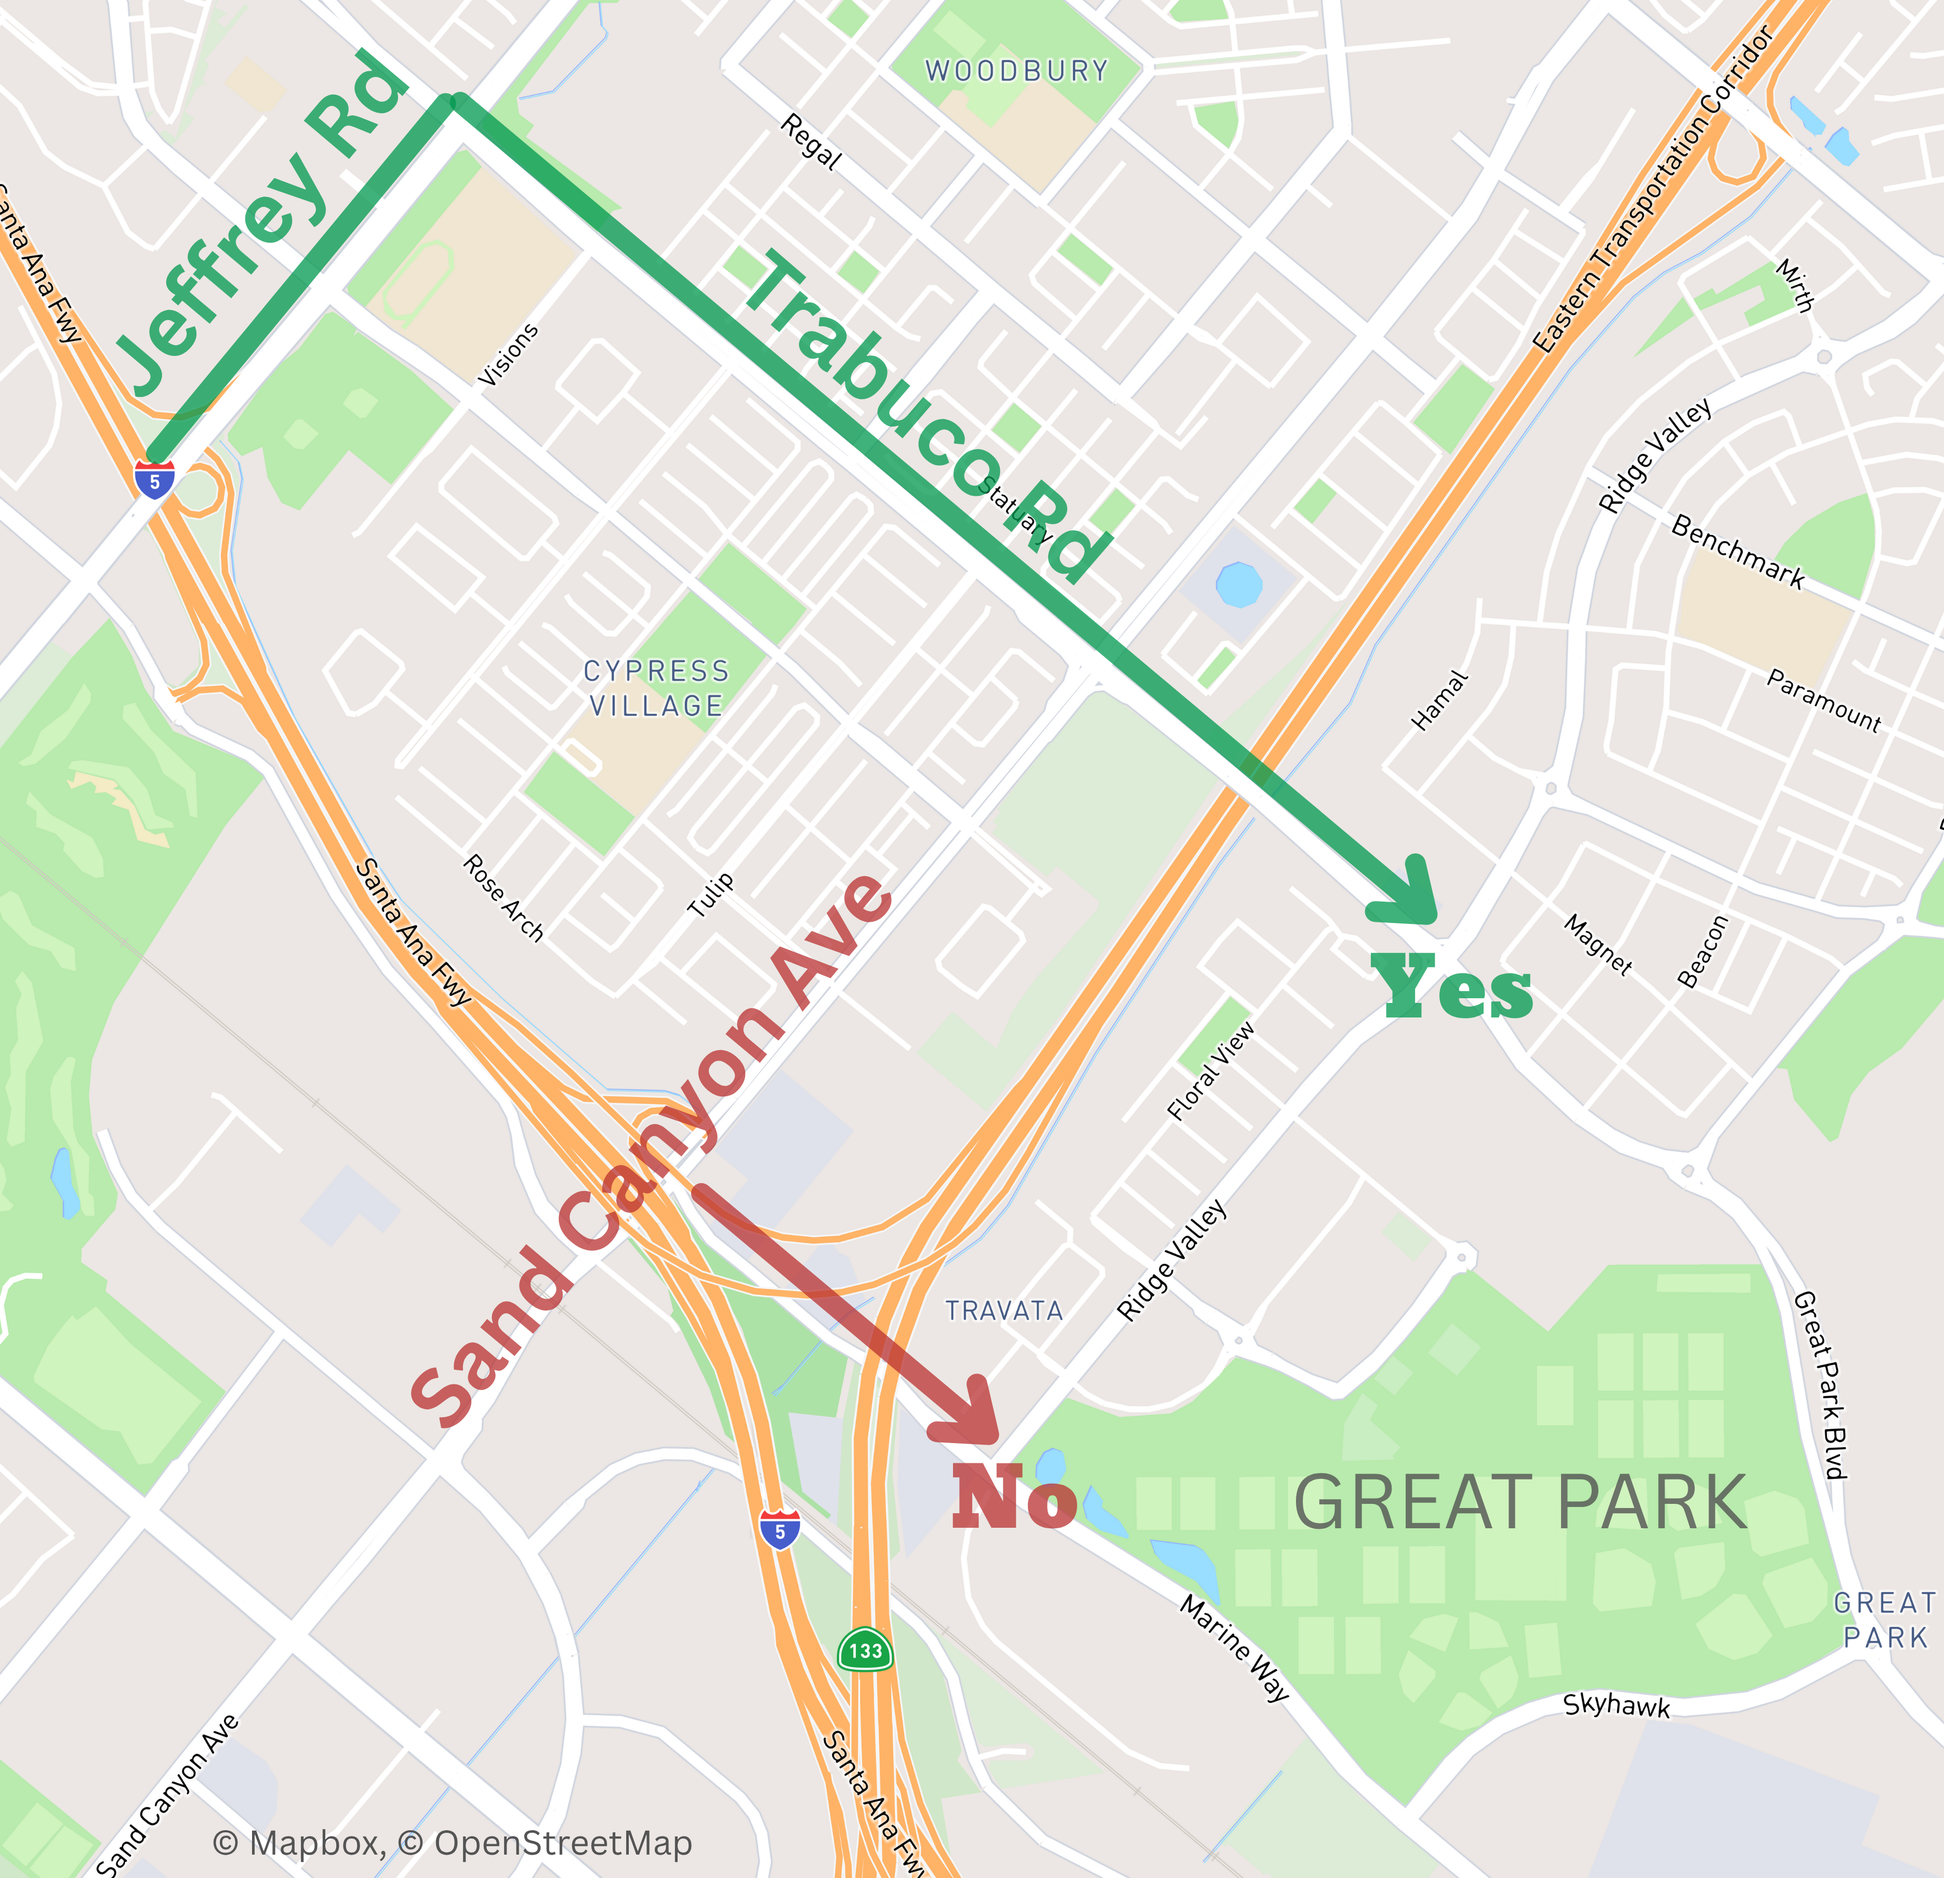
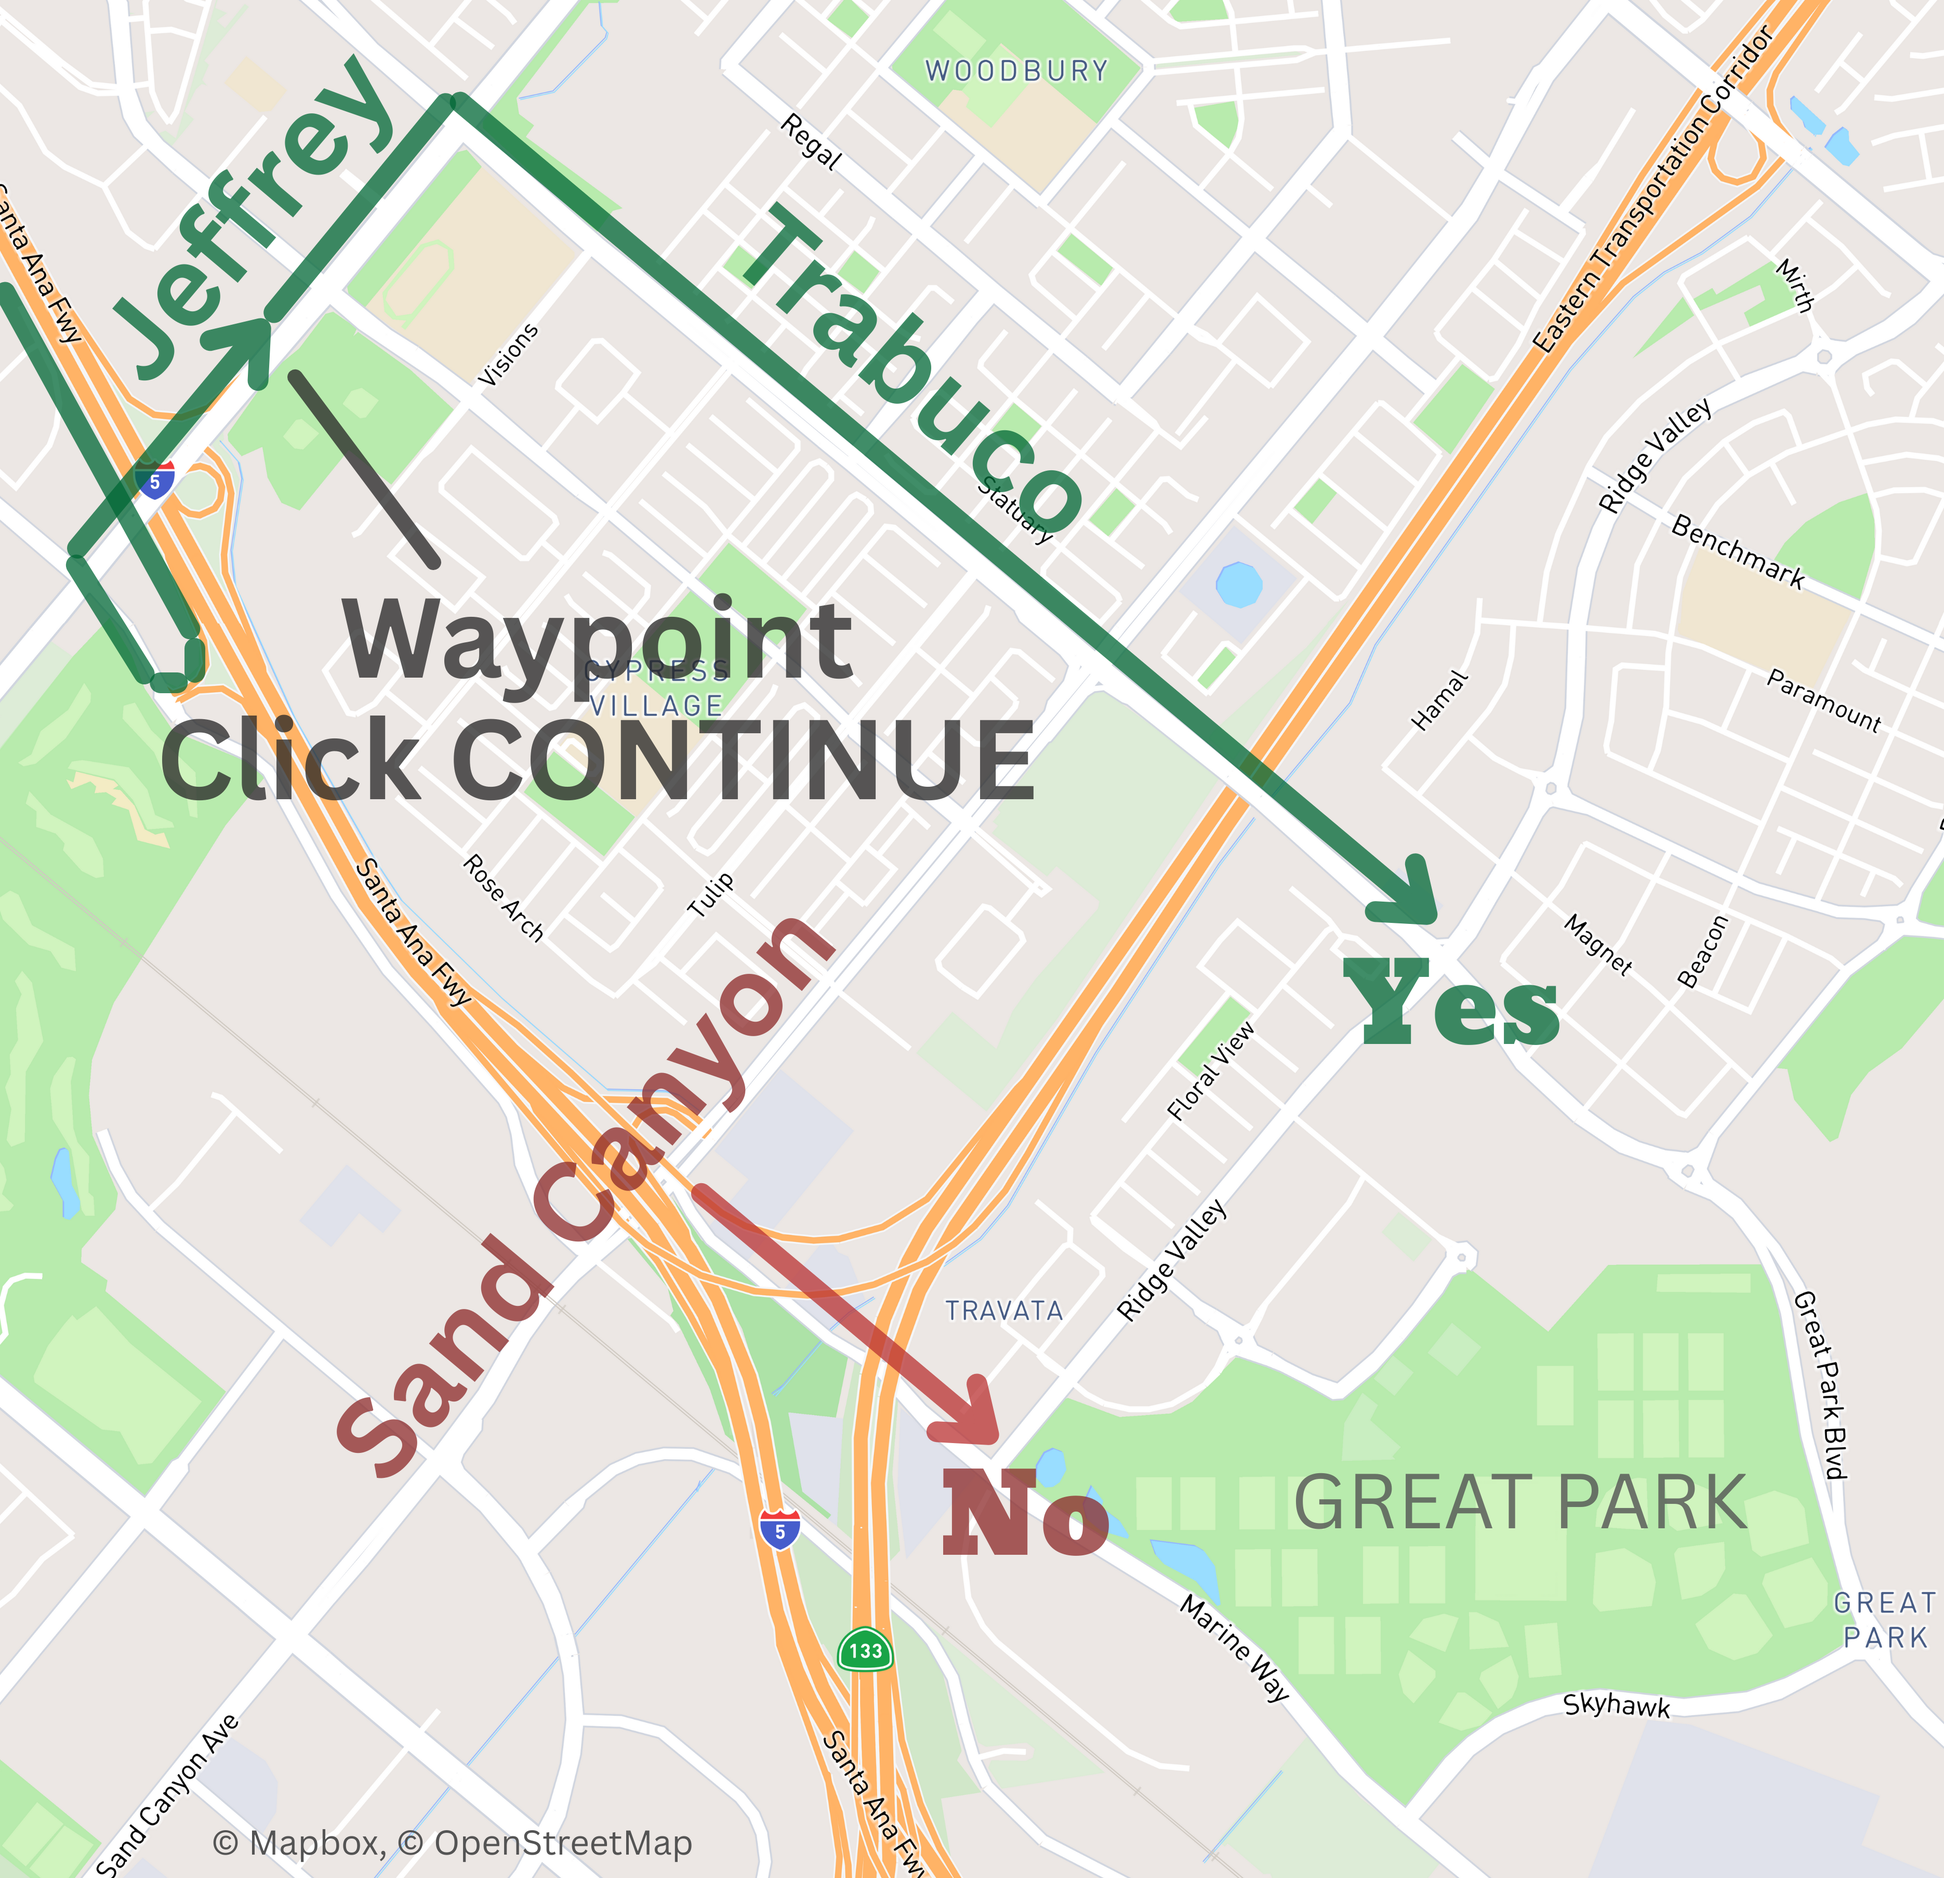
Parking, table filters

diff --git a/src/components/parkingAndDirections.tsx b/src/components/parkingAndDirections.tsx
@@ -17,26 +17,6 @@ import { urls } from "@/config/data";
 import { Button } from "@heroui/button";
 import { button as buttonStyles } from "@heroui/theme";
 
-function ParkingLink({ isStartDate }: { isStartDate: boolean }) {
-  return (
-    <Button
-      isExternal
-      as={Link}
-      className={buttonStyles({
-        color: isStartDate ? "primary" : "secondary",
-        radius: "full",
-        variant: "ghost",
-      })}
-      href={isStartDate ? urls.parkingPasses.startDate : urls.parkingPasses.endDate}
-    >
-      Purchase{" "}
-      {isStartDate
-        ? dates.meetStartDateParts.dayDescriptionLong
-        : dates.meetEndDateParts.dayDescriptionLong}
-    </Button>
-  );
-}
-
 const locations = {
   lot0: "33.67441530099316%2C-117.74813794406717",
   lot1: "33.67415547083599%2C-117.74815275109665",
@@ -232,20 +212,20 @@ function getSpectatorsAccordionItem(
   return (
     <>
       <p>
-        All vehicles (including school vans) will park in Lots 1 through 8 or Portola High School
-        (shuttle service available) with a $20 pass purchased online.
+        All vehicles (including school vans) will park in Lots 0, 2 through 7, or Portola High
+        School (shuttle service available).
       </p>
 
       <Accordion>
         {getSpectatorLotAccordionItem(instructions.freewayToLot0, handleOpenModal)}
-        {getSpectatorLotAccordionItem(instructions.freewayToLot1, handleOpenModal)}
+        {/*getSpectatorLotAccordionItem(instructions.freewayToLot1, handleOpenModal)*/}
         {getSpectatorLotAccordionItem(instructions.freewayToLot2, handleOpenModal)}
         {getSpectatorLotAccordionItem(instructions.freewayToLot3, handleOpenModal)}
         {getSpectatorLotAccordionItem(instructions.freewayToLot4, handleOpenModal)}
         {getSpectatorLotAccordionItem(instructions.freewayToLot5, handleOpenModal)}
         {getSpectatorLotAccordionItem(instructions.freewayToLot6, handleOpenModal)}
         {getSpectatorLotAccordionItem(instructions.freewayToLot7, handleOpenModal)}
-        {getSpectatorLotAccordionItem(instructions.freewayToLot8, handleOpenModal)}
+        {/*getSpectatorLotAccordionItem(instructions.freewayToLot8, handleOpenModal)*/}
         <AccordionItem
           key="Portola High School"
           aria-label="Portola High School"
@@ -333,6 +313,22 @@ function Instructions({
   );
 }
 
+function InstructionsSection({
+  handleOpenModal,
+}: {
+  handleOpenModal: (instruction: ParkingInstructionType) => void;
+}) {
+  return (
+    <>
+      <h1 className={clsx("pt-6", getSubheaderStyle())}>Directions</h1>
+      <div className="flex flex-col items-center justify-start gap-x-10 gap-y-8 lg:flex-row lg:items-start">
+        <Instructions handleOpenModal={handleOpenModal} />
+        <GreatParkParkingLots />
+      </div>
+    </>
+  );
+}
+
 function MapLink({ location, includeWaypoint }: { location: string; includeWaypoint: boolean }) {
   return (
     <div>
@@ -349,7 +345,7 @@ function MapLink({ location, includeWaypoint }: { location: string; includeWaypo
       {includeWaypoint && (
         <p className="inline">
           {" "}
-          (when getting to the intermediate waypoint on Jeffrey, click CONTINUE to proceed to the
+          (when getting to the intermediate waypoint on Jeffrey, click CONTINUE to continue to the
           Great Park, as explained above in red)
         </p>
       )}
@@ -599,7 +595,7 @@ function Alerts() {
                 <p>
                   Use the Google Maps links below. They force you through Jeffrey by including an{" "}
                   <span className="font-bold">intermediate waypoint</span>. When getting to the
-                  waypoint, click CONTINUE in Google Maps to proceed to the Great Park.
+                  waypoint, click CONTINUE in Google Maps to continue to the Great Park.
                 </p>
               </div>
               <div className="relative aspect-[3741/3614] max-h-56 w-full max-w-56 lg:basis-2/5">
@@ -666,6 +662,41 @@ function GreatParkParkingLots() {
   );
 }
 
+function ParkingLink({ isStartDate }: { isStartDate: boolean }) {
+  return (
+    <Button
+      isExternal
+      as={Link}
+      className={buttonStyles({
+        color: isStartDate ? "primary" : "secondary",
+        radius: "full",
+        variant: "ghost",
+      })}
+      href={isStartDate ? urls.parkingPasses.startDate : urls.parkingPasses.endDate}
+    >
+      Purchase{" "}
+      {isStartDate
+        ? dates.meetStartDateParts.dayDescriptionLong
+        : dates.meetEndDateParts.dayDescriptionLong}
+    </Button>
+  );
+}
+
+function ParkingPasses() {
+  return (
+    <>
+      <h1 className={clsx("pt-6", getSubheaderStyle())}>Parking Passes</h1>
+      <div className="pl-6">
+        <p>All vehicles (including school vans) must purchase a $22 parking pass online.</p>
+        <div className="flex justify-center gap-6 pt-6 sm:justify-start">
+          <ParkingLink isStartDate={true} />
+          <ParkingLink isStartDate={false} />
+        </div>
+      </div>
+    </>
+  );
+}
+
 export default function ParkingAndDirections() {
   const { isOpen, onOpen, onOpenChange } = useDisclosure();
   const [instruction, setInstruction] = useState<ParkingInstructionType | undefined>();
@@ -681,16 +712,8 @@ export default function ParkingAndDirections() {
         <InstructionModal isOpen={isOpen} onOpenChange={onOpenChange} instruction={instruction} />
       )}
       <Alerts />
-      <h1 className={clsx("pt-6", getSubheaderStyle())}>Parking Passes</h1>
-      <div className="flex justify-center gap-6 pt-2 sm:justify-start sm:pl-10">
-        <ParkingLink isStartDate={true} />
-        <ParkingLink isStartDate={false} />
-      </div>
-      <h1 className={clsx("pt-6", getSubheaderStyle())}>Directions</h1>
-      <div className="flex flex-col items-center justify-start gap-x-10 gap-y-8 lg:flex-row lg:items-start">
-        <Instructions handleOpenModal={handleOpenModal} />
-        <GreatParkParkingLots />
-      </div>
+      <ParkingPasses />
+      <InstructionsSection handleOpenModal={handleOpenModal} />
     </>
   );
 }

diff --git a/src/components/allTimeIndividualsTable.tsx b/src/components/allTimeIndividualsTable.tsx
@@ -238,13 +238,13 @@ export default function AllTimeIndividualsTable() {
         <div className="flex flex-col justify-between gap-3 sm:flex-row">
           <div className="flex basis-1/2 gap-3">
             <StyledInput
-              placeholder="Search by name..."
+              placeholder="Filter name..."
               value={nameFilter}
               onValueChange={setNameFilter}
               className="basis-1/2"
             />
             <StyledInput
-              placeholder="Search by school..."
+              placeholder="Filter school..."
               value={teamFilter}
               onValueChange={setTeamFilter}
               className="basis-1/2"

diff --git a/src/components/participatingTeamsTable.tsx b/src/components/participatingTeamsTable.tsx
@@ -93,7 +93,7 @@ export default function ParticipatingTeamsTable() {
       return (
         <div className="flex flex-col justify-between gap-3 sm:flex-row">
           <StyledInput
-            placeholder="Search by school..."
+            placeholder="Filter school..."
             value={teamFilter}
             onValueChange={setTeamFilter}
             className="basis-2/5"

diff --git a/src/components/allTimeTeamsTable.tsx b/src/components/allTimeTeamsTable.tsx
@@ -120,7 +120,7 @@ export default function AllTimeTeamsTable() {
       return (
         <div className="flex flex-col justify-between gap-3 sm:flex-row">
           <StyledInput
-            placeholder="Search by school..."
+            placeholder="Search school..."
             value={teamFilter}
             onValueChange={setTeamFilter}
             className="basis-2/5"
